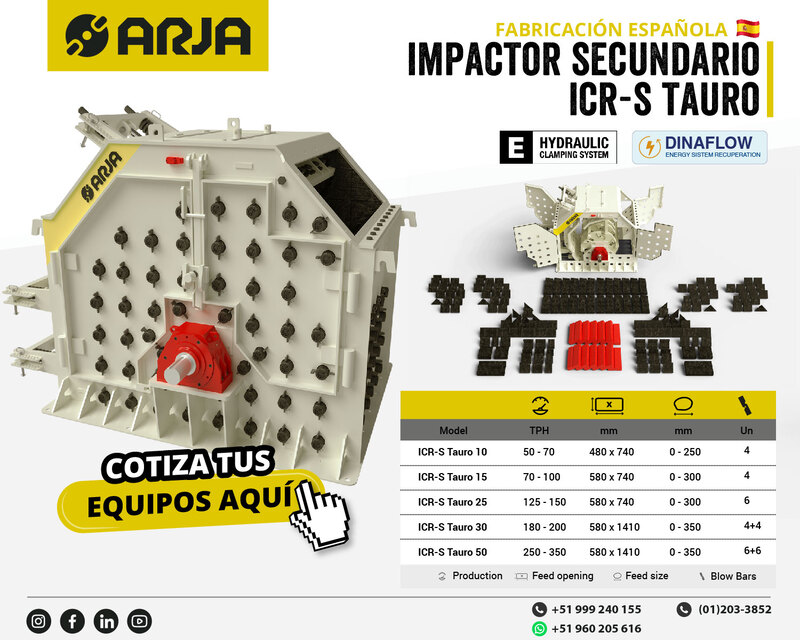
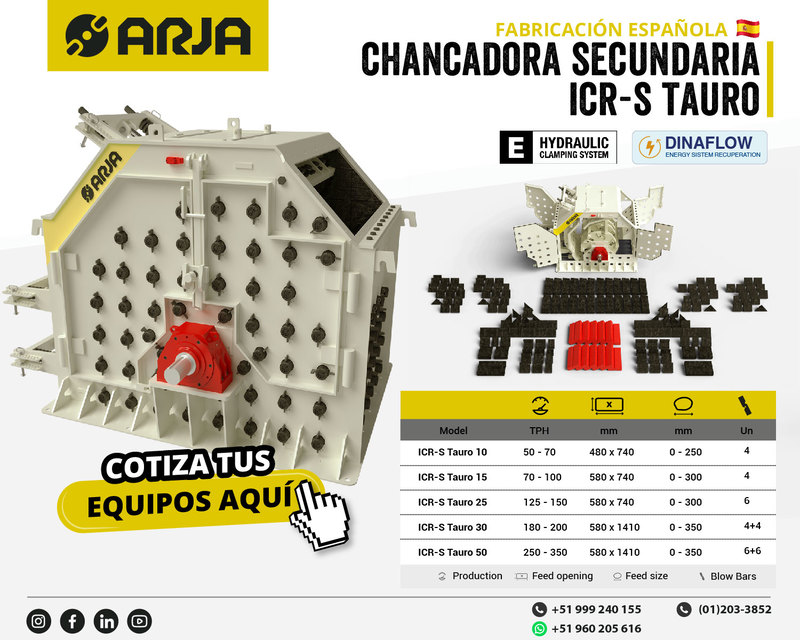
nuevos cambios

diff --git a/equipos_e_instrumentos_para_montaje_electrico.html b/equipos_e_instrumentos_para_montaje_electrico.html
@@ -119,7 +119,7 @@
                 <ul class="dropdown-menu">
                   <li><a href="equipos_de_soldadura_por_termofusion_y_electrofusion.html">Equipos de soldadura por termofusi&oacute;n y electrofusi&oacute;n</a></li>
 					<li><a href="equipos_y_herramientas_para_trabajos_en_tuberias_de_acero.html">Equipos y Herramientas para Trabajos en Tuber&iacute;as de Acero</a></li>
-					<li><a href="equipos_e_instrumentos_para_montaje_electrico.html">Equipos de trituracion por impacto</a></li>
+					<li><a href="equipos_e_instrumentos_para_montaje_electrico.html">Chancadores de eje horizontal</a></li>
 					<li><a href="llaves_de_torque_hidraulicas_y_neumaticas.html">Llaves de Torque Hidr&aacute;ulicas y Neum&aacute;ticas</a></li>
 					<li><a href="herramientas_neumaticas_para_uso_industrial_y_automotriz_.html">Herramientas Neum&aacute;ticas para uso Industrial y Automotriz </a></li>
 					<li><a href="tecles_electricos_de_cadena_y_cable.html">Tecles El&eacute;ctricos de Cadena y Cable</a></li>
@@ -156,13 +156,13 @@
         <div class="col-lg-9 col-md-9 col-sm-8 col-md-push-3">
           <div class="aa-product-catg-content">
             <div class="aa-product-catg-head">
-              <h1>Equipos de trituracion por impacto</h1>
+              <h1>Chancadores de eje horizontal</h1>
               <!-- <h1>Equipos e Instrumentos para Montaje El&eacute;ctrico</h1> -->
             </div>
 			<div class="row brdb">
 				<div class="col-md-8 col-sm-8">
 					<div class="col-md-12 row">
-						<p>ARJA fabrica equipos para la industria de trituración. Ofrecemos un servicio integral que va desde la concepción y asesoramiento técnico hasta la puesta en marcha de cada proyecto. ARJA dispone de una gama completa de productos para proveer de soluciones personalizadas con la mayor calidad del mercado. La tecnología y las innovaciones nos hacen referencia en el sector de la trituración por impacto. Estamos presentes en más de 30 países.</p>
+						<p>ARJA fabrica equipos para la industria del chancado. Ofrecemos un servicio integral que va desde la concepción y asesoramiento técnico hasta la puesta en marcha de cada proyecto. ARJA dispone de una gama completa de productos para proveer de soluciones personalizadas con la mayor calidad del mercado. La tecnología y las innovaciones nos hacen referencia en el sector del chancado. Estamos presentes en más de 30 países.</p>
 						<!-- <p>Es la principal compa&ntilde;&iacute;a a nivel mundial especializada en fabricaci&oacute;n de maquinas y equipos para el montaje y mantenimiento el&eacute;ctrico industrial, telefon&iacute;a y comunicaciones.</p> -->
 						<p>
                 Las trituradoras de impacto de alta calidad ARJA son fabricadas con los mejores materiales y componentes existentes en el mercado al día de hoy. Los aspectos destacados de una trituradora de impacto ARJA en comparación al cono:
@@ -171,9 +171,9 @@
 						<ul>
 						<li>Máximo rendimiento del motor gracias a los variadores de velocidad equipados. Permitiendo al mismo tiempo una curva granulométrica constante.</li>
 						<li>La forma cúbica del material es óptima (granulometría perfecta) en una sola pasada con una sola máquina, por ende, el consumo de energía es inferior.</li>
-						<li>Gracias al sistema “DINAFLOW” junto con el sistema de trituración a impacto de rotor con eje horizontal, se aprovecha la inercia producida por el movimiento del mismo para generar electricidad, reduciendo el consumo de energía eléctrica.</li>
+						<li>Gracias al sistema “DINAFLOW” junto con el sistema de chancado de rotor con eje horizontal, se aprovecha la inercia producida por el movimiento del mismo para generar electricidad, reduciendo el consumo de energía eléctrica.</li>
 						<li>Equipo cuenta con sistema de regulación y control a través de una App que supervisa remotamente el trabajo realizado por nuestros equipos.</li>
-						<li>Nuestros equipos de trituración por impacto están equipados con un detectores de metales y un imán permanente para una total protección de la maquinaria, evitando de este modo la entrada a la cámara de elementos férreos, elementos no triturables.</li>
+						<li>Nuestros equipos estan dotados de detectores de metales y un imán permanente para una total protección de la maquinaria, evitando de este modo la entrada a la cámara de elementos férreos, elementos no triturables.</li>
 						<!-- <li>Prensa terminales manuales, el&eacute;ctricos a bater&iacute;a hasta 1000 MCM.</li> -->
 						</ul>
 						</div>
@@ -261,7 +261,7 @@
              <ul>
                   <li><a href="equipos_de_soldadura_por_termofusion_y_electrofusion.html">Equipos de soldadura por termofusi&oacute;n y electrofusi&oacute;n</a></li>
 					<li><a href="equipos_y_herramientas_para_trabajos_en_tuberias_de_acero.html">Equipos y Herramientas para Trabajos en Tuber&iacute;as de Acero</a></li>
-					<li><a href="equipos_e_instrumentos_para_montaje_electrico.html"><b>Equipos de trituracion por impacto</b></a></li>
+					<li><a href="equipos_e_instrumentos_para_montaje_electrico.html"><b>Chancadores de eje horizontal</b></a></li>
 					<li><a href="llaves_de_torque_hidraulicas_y_neumaticas.html">Llaves de Torque Hidr&aacute;ulicas y Neum&aacute;ticas</a></li>
 					<li><a href="herramientas_neumaticas_para_uso_industrial_y_automotriz_.html">Herramientas Neum&aacute;ticas para uso Industrial y Automotriz </a></li>
 					<li><a href="tecles_electricos_de_cadena_y_cable.html">Tecles El&eacute;ctricos de Cadena y Cable</a></li>

diff --git a/index.html b/index.html
@@ -513,7 +513,7 @@
                       <h3 class="aa-blog-title aa-read-mor-btn"><a
                           href="equipos_e_instrumentos_para_montaje_electrico.html">Arja <span
                             class="fa fa-long-arrow-right"></span></a></h3>
-                      <p>ARJA fabrica equipos para la industria de trituración. ofrecemos un servicio integral que va desde la concepción y asesoramiento técnico hasta la puesta en marcha de cada proyecto...</p>
+                      <p>ARJA fabrica equipos para la industria del chancado. ofrecemos un servicio integral que va desde la concepción y asesoramiento técnico hasta la puesta en marcha de cada proyecto...</p>
                     </div>
                   </div>
                 </div>
